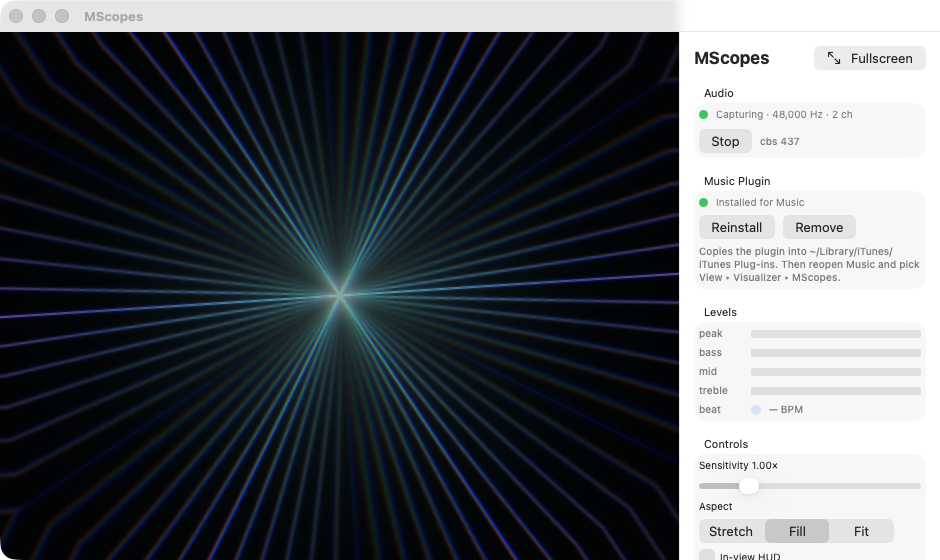
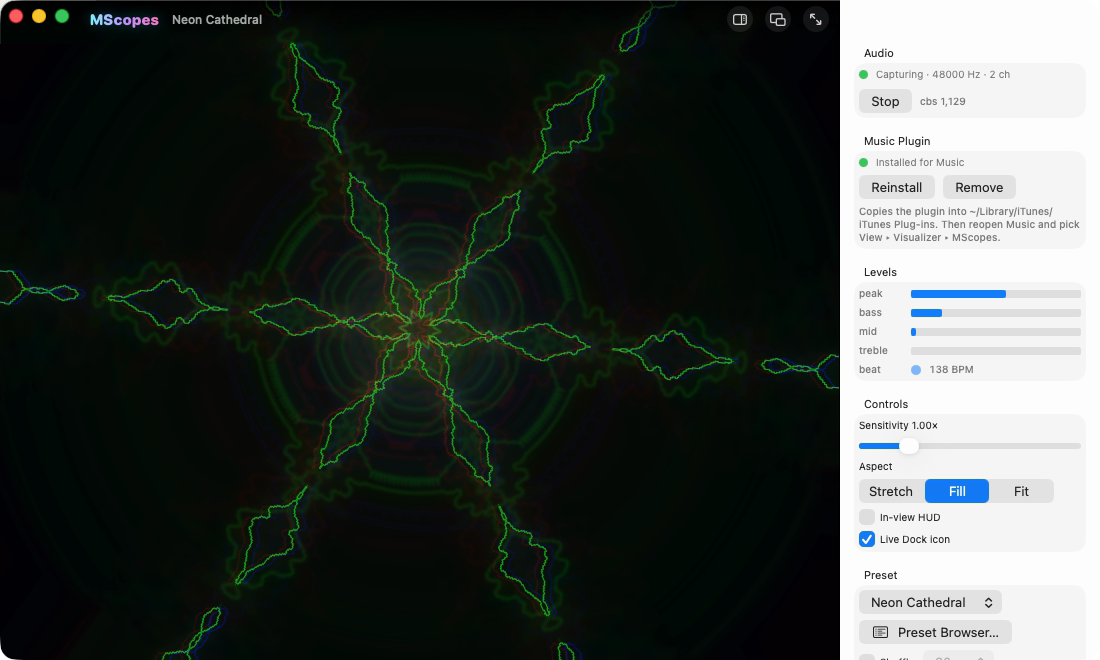
README: current app screenshot

diff --git a/README.md b/README.md
@@ -79,7 +79,9 @@ part of this repository):
 <td><img src="docs/media/classic/yay-mk-ii.jpg" alt="yay mk ii"></td>
 </tr></table>
 
-The app, with its sidebar:
+The app: its own header over the visuals, the sidebar alongside. Widget
+mode (View ▸ Widget Mode) keeps just the visuals in a small always-on-top
+window, and the Dock icon shows a live spectrum while music plays.
 
 <p align="center"><img src="docs/media/app/neon-cathedral.png" width="720" alt="MScopes window"></p>
 
